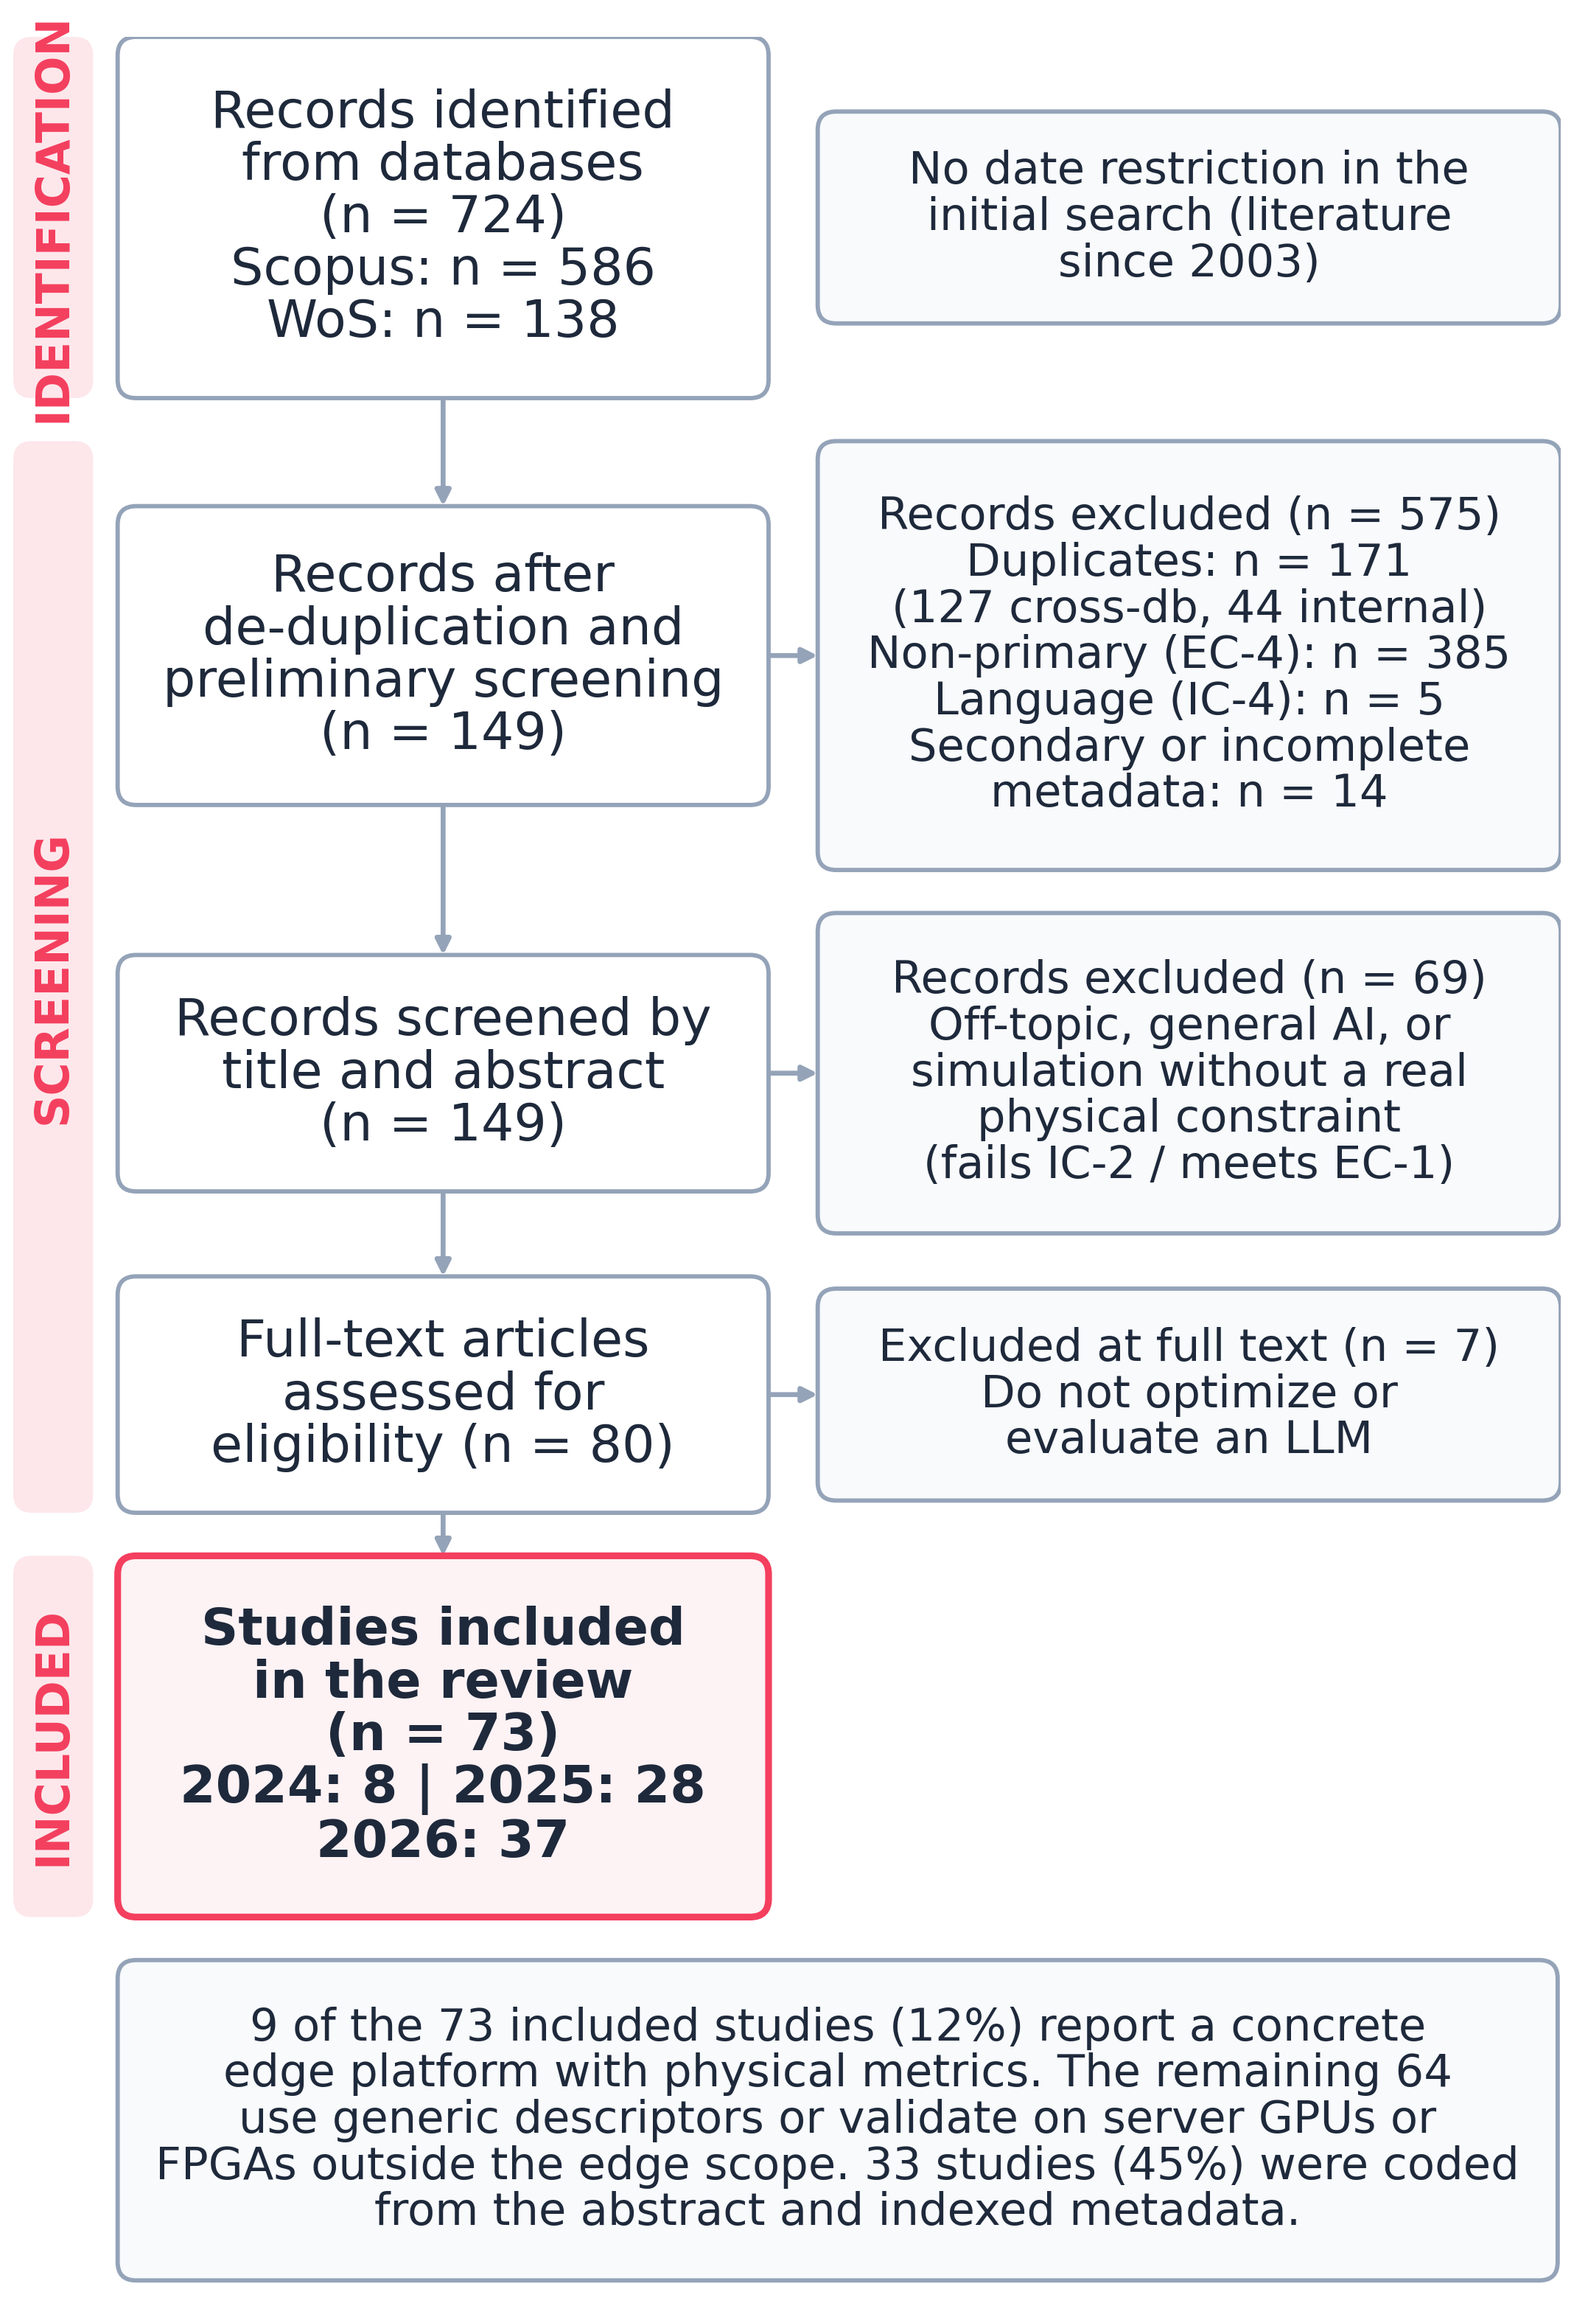
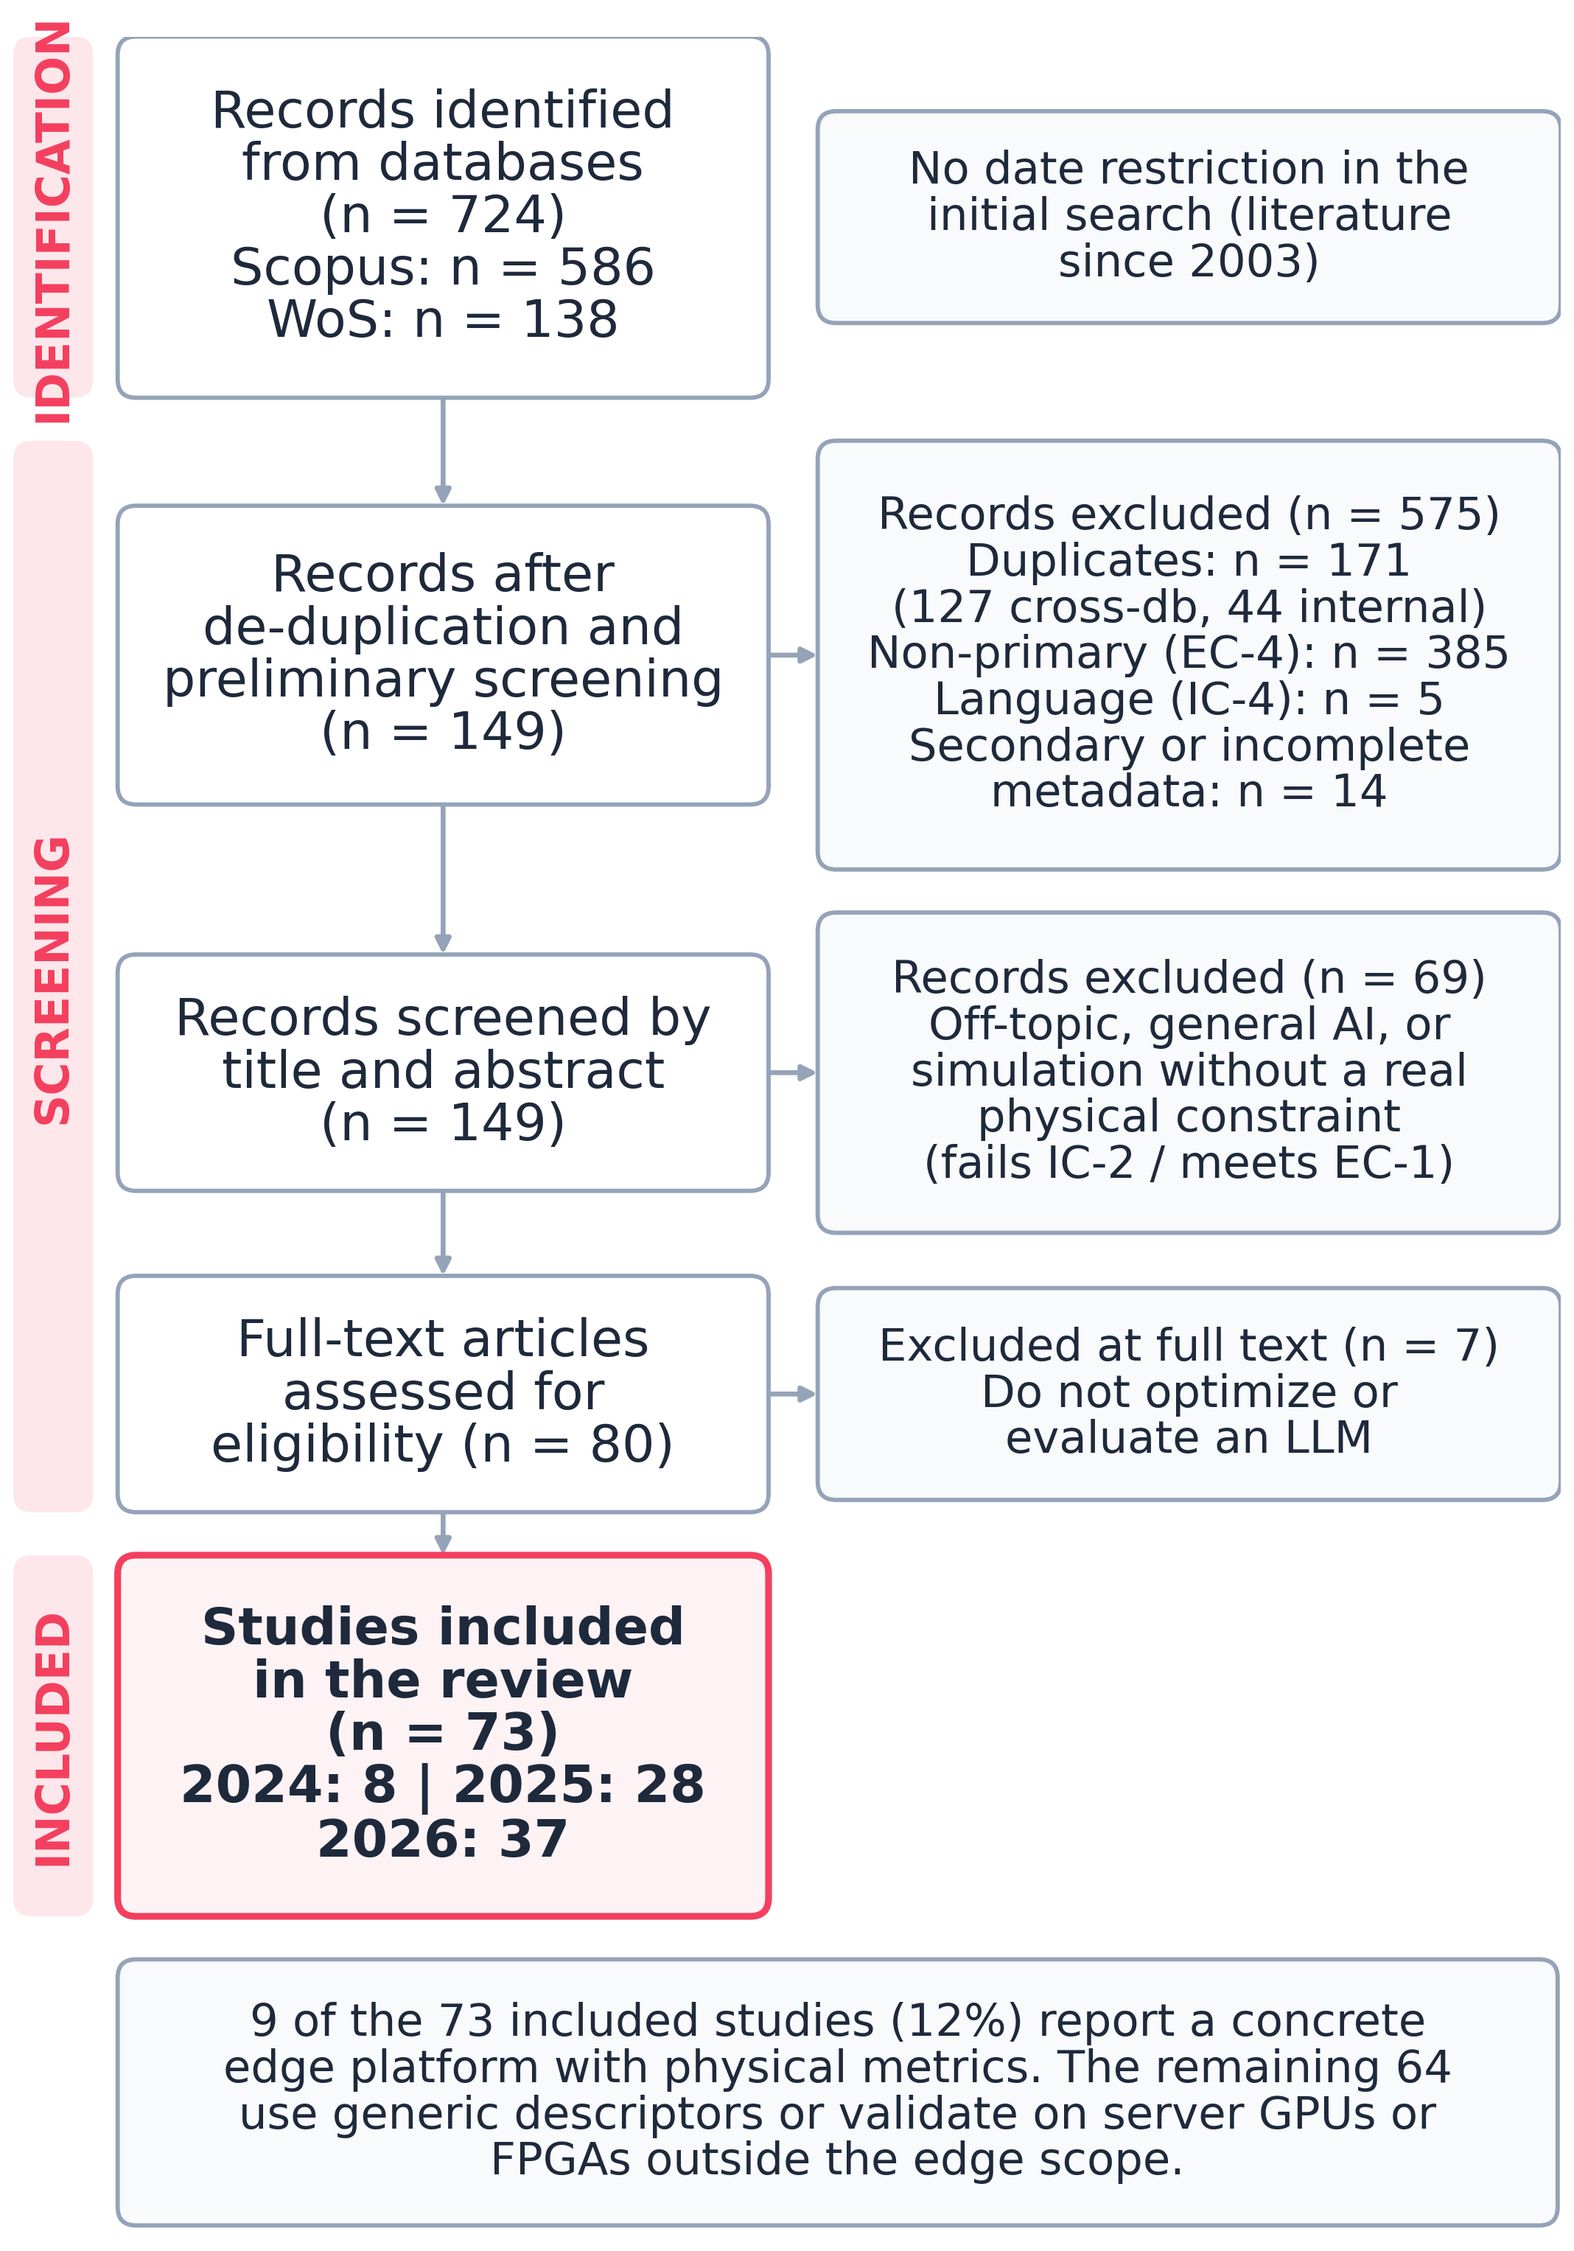
fix: nota de la figura PRISMA sin la cifra de codificacion desde el resumen
Claude-Session: https://claude.ai/code/session_0158tQX2w99S6LVKV69uhds3

diff --git a/gen_figuras_en.py b/gen_figuras_en.py
@@ -123,8 +123,7 @@ rows = [  # (phase, main text, side text, main style)
      None, 'highlight'),
 ]
 note = ('9 of the 73 included studies (12%) report a concrete\nedge platform with physical metrics. The remaining 64\n'
-        'use generic descriptors or validate on server GPUs or\nFPGAs outside the edge scope. 33 studies (45%) were coded\n'
-        'from the abstract and indexed metadata.')
+        'use generic descriptors or validate on server GPUs or\nFPGAs outside the edge scope.')
 
 layout, y = [], 0
 for ph, mt, st, style in rows:
